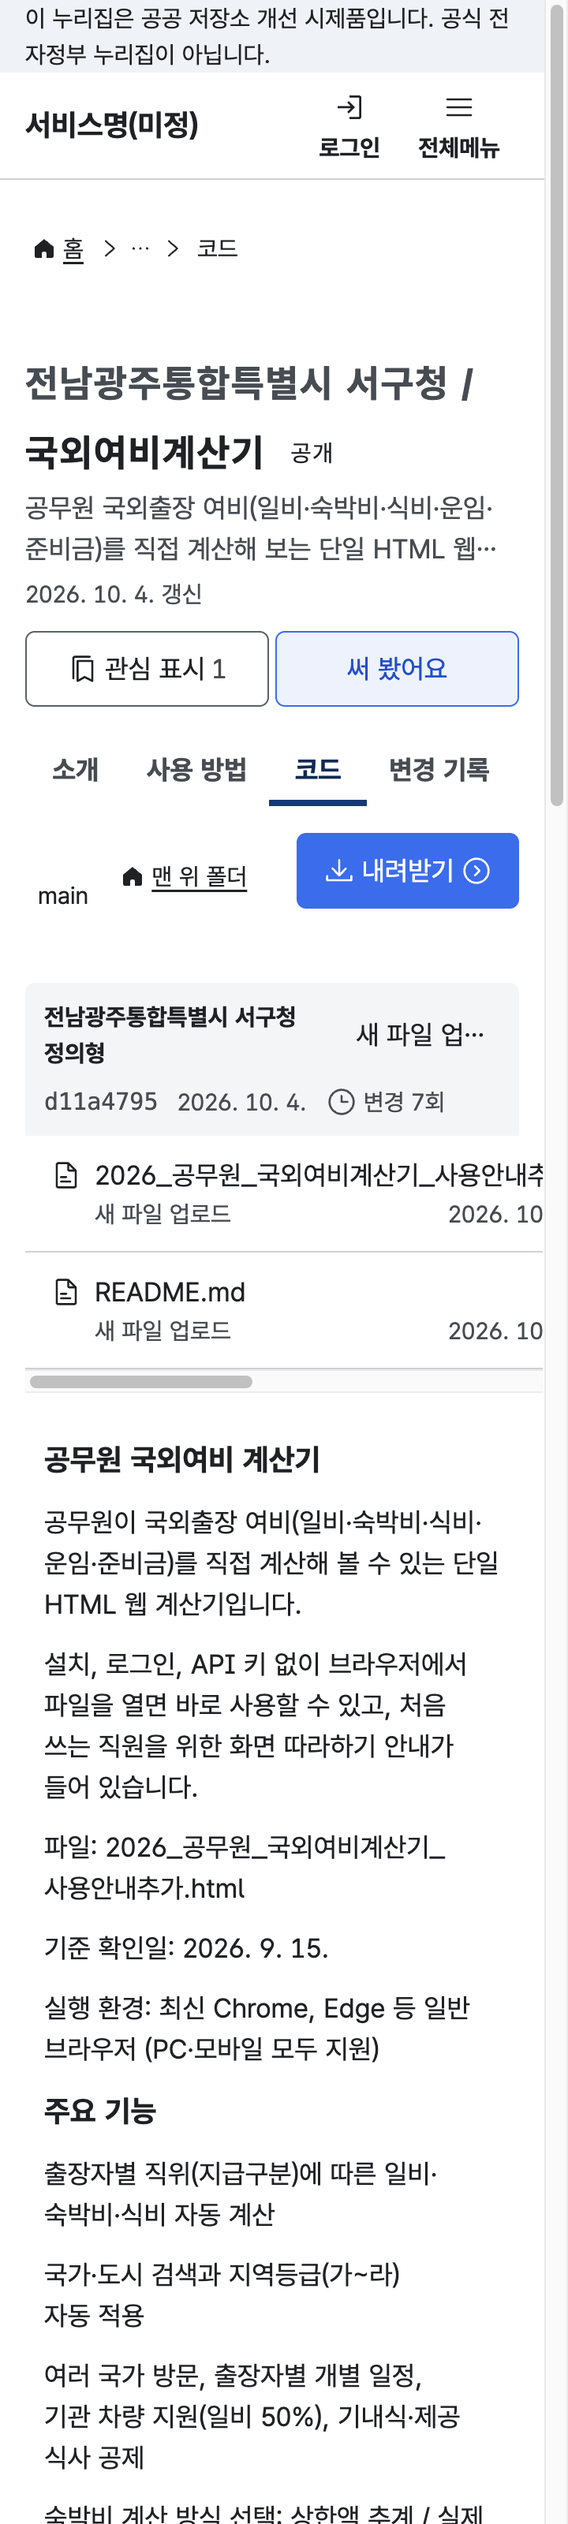
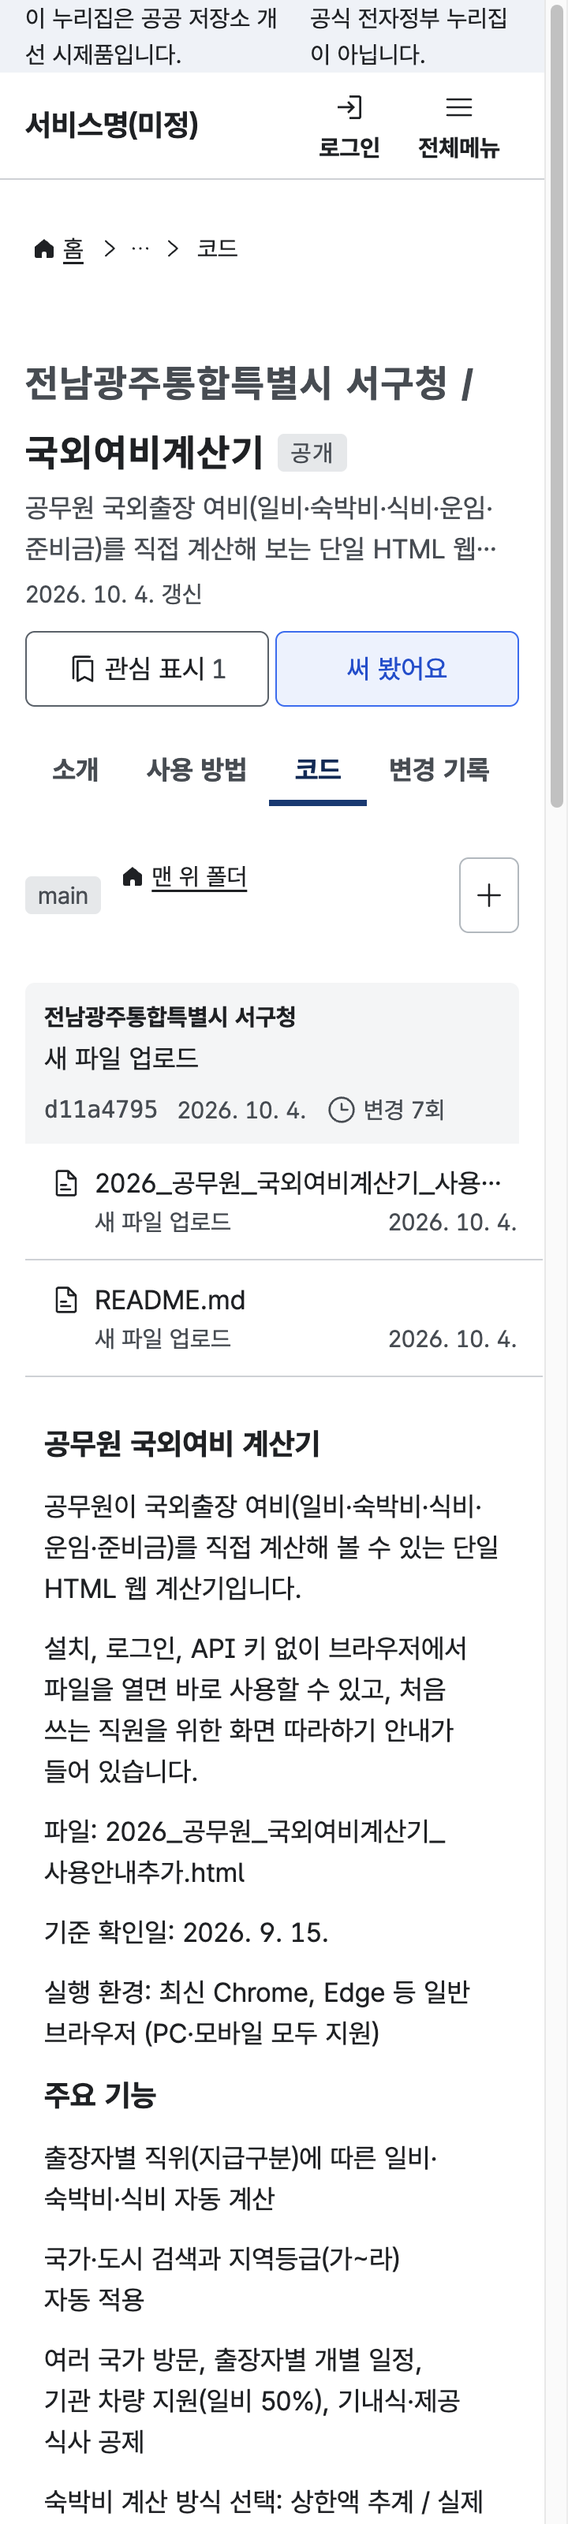
검색 색인 기관 이름에서 담당자 이름과 이니셜 제외(U9)

diff --git a/server/src/catalog-core.js b/server/src/catalog-core.js
@@ -1,16 +1,19 @@
 // 서버(Node)와 화면(브라우저 정적 모드)이 함께 쓰는 검색 로직. 파일 읽기 없음.
 import{classify}from'./analysis.js';
 export function parseCsv(s){let rows=[],row=[],v='',quoted=false;for(let i=0;i<s.length;i++){const c=s[i];if(c==='"'){if(quoted&&s[i+1]==='"'){v+='"';i++;}else quoted=!quoted;}else if(c===','&&!quoted){row.push(v);v='';}else if(c==='\n'&&!quoted){row.push(v.replace(/\r$/,''));if(row.some(Boolean))rows.push(row);row=[];v='';}else v+=c;}if(v||row.length){row.push(v);rows.push(row);}const keys=rows.shift();return rows.map(r=>Object.fromEntries(keys.map((k,i)=>[k,r[i]||''])));}
+// 기관 이름(U9 개인정보 비노출). app/src/components/Layout/orgLabel.js와 같은 규칙. 판단 못 하면 null(화면은 "기관 정보 없음").
+const AGENCY=/(특별자치시|특별자치도|광역시|특별시|시|군|구|도|청|부|처|원|공단|공사|센터|교육청|학교|과|팀|본부|소방서|경찰서|위원회|재단|진흥원|연구원|사무소|관리소|청사|국|실)$/;
+export function organizationName(raw){if(!raw)return null;const words=String(raw).trim().split(/\s+/);while(words.length>1){const last=words[words.length-1];if(/^[A-Z]{2,4}$/.test(last)||(/^[가-힣]{2,4}$/.test(last)&&!AGENCY.test(last)))words.pop();else break;}return words.some(w=>AGENCY.test(w))?words.join(' '):null;}
 export const synonyms={출장:['여비','정산'],여비:['출장','정산'],문서:['한글','hwp','pdf'],요약:['summarizer','summary'],회의:['회의록'],엑셀:['excel','xlsx'],자동화:['자동','automation'],민원:['주민','상담']};
 export const synonymSource='본 프로젝트 업무용 편집 사전(잠정). 외부 표준·검증된 유의어 사전이 아님. UX U1의 쉬운 업무말 검색을 위한 규칙.';
 export function createCatalog({csvText,snapshot}){const live=new Map(snapshot.items.map(p=>[p.id,p]));
-const projects=parseCsv(csvText).map(r=>({id:Number(r.id),name:r.name,path:r.path,organization:r.owner.replace(/\s+[가-힣]{2,4}$/,'').trim(),last:r.last,language:r.lang,description:null,execution:'unknown',license:'unknown',classification:classify(r.name),webUrl:'https://gitlab.aigov.go.kr/'+r.path,sourceDate:'2026-10-25'}));
+const projects=parseCsv(csvText).map(r=>({id:Number(r.id),name:r.name,path:r.path,organization:organizationName(r.owner),last:r.last,language:r.lang,description:null,execution:'unknown',license:'unknown',classification:classify(r.name),webUrl:'https://gitlab.aigov.go.kr/'+r.path,sourceDate:'2026-10-25'}));
 
 
 function units(text){const words=String(text).toLowerCase().match(/[가-힣a-z0-9]+/g)||[];const out=[];for(const w of words){out.push(w);if(/[가-힣]/.test(w)){for(let i=0;i<w.length-1;i++)out.push(w.slice(i,i+2));}}return out;}
 for(const p of projects){const x=live.get(p.id);p.snapshotStatus=x?'current-public-list':'older-team-observation';if(x){p.description=x.description;p.topics=x.topics;p.namespace=x.namespace;p.last=x.last_activity_at?.slice(0,10)||p.last;p.sourceDate=snapshot.observedAt;}}
-for(const x of snapshot.items)if(!projects.some(p=>p.id===x.id))projects.push({id:x.id,name:x.name,path:x.path,organization:x.namespace?.name||null,last:x.last_activity_at?.slice(0,10)||'',description:x.description,topics:x.topics,namespace:x.namespace,language:null,execution:'unknown',license:'unknown',classification:classify(x.name+' '+(x.description||'')+' '+x.topics.join(' ')),webUrl:x.web_url,sourceDate:snapshot.observedAt});
+for(const x of snapshot.items)if(!projects.some(p=>p.id===x.id))projects.push({id:x.id,name:x.name,path:x.path,organization:organizationName(x.namespace?.name),last:x.last_activity_at?.slice(0,10)||'',description:x.description,topics:x.topics,namespace:x.namespace,language:null,execution:'unknown',license:'unknown',classification:classify(x.name+' '+(x.description||'')+' '+x.topics.join(' ')),webUrl:x.web_url,sourceDate:snapshot.observedAt});
 for(const p of projects)p.classification=classify(p.name+' '+(p.description||'')+' '+(p.topics||[]).join(' '));
-const docs=projects.map(p=>units(p.name+' '+p.path+' '+(p.description||'')+' '+(p.topics||[]).join(' ')+' '+p.language+' '+p.organization));const df=new Map();for(const d of docs)for(const t of new Set(d))df.set(t,(df.get(t)||0)+1);const mean=docs.reduce((s,x)=>s+x.length,0)/docs.length;
-function search(query='',filters={},limit=20,page=1){const original=String(query).trim().slice(0,500);const expanded=[original,...Object.entries(synonyms).filter(([k])=>original.includes(k)).flatMap(([,v])=>v)].join(' '),q=[...new Set(units(expanded))];const matched=projects.map((p,i)=>{let score=0;const d=docs[i];for(const t of q){const tf=d.filter(x=>x===t).length;if(tf){const idf=Math.log(1+(projects.length-(df.get(t)||0)+.5)/((df.get(t)||0)+.5));score+=idf*tf*2.2/(tf+1.2*(.25+.75*d.length/mean));}}if(original&&p.name.includes(original))score+=4;return{...p,score:Number(score.toFixed(4))};}).filter(p=>!q.length||p.score>0);const facets={field:{},execution:{}};for(const p of matched){for(const f of p.classification.fields)facets.field[f.name]=(facets.field[f.name]||0)+1;facets.execution[p.execution]=(facets.execution[p.execution]||0)+1;}const scored=matched.filter(p=>(!filters.field||p.classification.fields.some(f=>f.name===filters.field))&&(!filters.organization||p.organization.includes(filters.organization))&&(!filters.execution||p.execution===filters.execution)&&(!filters.updatedAfter||p.last>=filters.updatedAfter)&&(!filters.license||p.license===filters.license));scored.sort((a,b)=>b.score-a.score||b.last.localeCompare(a.last));limit=Math.min(50,Math.max(1,Number(limit)||20));page=Math.max(1,Number(page)||1);return{items:scored.slice((page-1)*limit,page*limit),total:scored.length,facets,page,limit,method:'BM25 + 한국어 2글자 n-gram',sourceDate:snapshot.observedAt,indexedFields:['name','path','description','topics','namespace','organization','language'],notice:'공개 목록 스냅샷을 검색합니다. README 본문은 일괄 수집하지 않았습니다. 실행 환경과 라이선스는 확인 전이므로 unknown입니다.',synonymSource};}
+const docs=projects.map(p=>units(p.name+' '+p.path+' '+(p.description||'')+' '+(p.topics||[]).join(' ')+' '+p.language+' '+(p.organization||'')));const df=new Map();for(const d of docs)for(const t of new Set(d))df.set(t,(df.get(t)||0)+1);const mean=docs.reduce((s,x)=>s+x.length,0)/docs.length;
+function search(query='',filters={},limit=20,page=1){const original=String(query).trim().slice(0,500);const expanded=[original,...Object.entries(synonyms).filter(([k])=>original.includes(k)).flatMap(([,v])=>v)].join(' '),q=[...new Set(units(expanded))];const matched=projects.map((p,i)=>{let score=0;const d=docs[i];for(const t of q){const tf=d.filter(x=>x===t).length;if(tf){const idf=Math.log(1+(projects.length-(df.get(t)||0)+.5)/((df.get(t)||0)+.5));score+=idf*tf*2.2/(tf+1.2*(.25+.75*d.length/mean));}}if(original&&p.name.includes(original))score+=4;return{...p,score:Number(score.toFixed(4))};}).filter(p=>!q.length||p.score>0);const facets={field:{},execution:{}};for(const p of matched){for(const f of p.classification.fields)facets.field[f.name]=(facets.field[f.name]||0)+1;facets.execution[p.execution]=(facets.execution[p.execution]||0)+1;}const scored=matched.filter(p=>(!filters.field||p.classification.fields.some(f=>f.name===filters.field))&&(!filters.organization||(p.organization||'').includes(filters.organization))&&(!filters.execution||p.execution===filters.execution)&&(!filters.updatedAfter||p.last>=filters.updatedAfter)&&(!filters.license||p.license===filters.license));scored.sort((a,b)=>b.score-a.score||b.last.localeCompare(a.last));limit=Math.min(50,Math.max(1,Number(limit)||20));page=Math.max(1,Number(page)||1);return{items:scored.slice((page-1)*limit,page*limit),total:scored.length,facets,page,limit,method:'BM25 + 한국어 2글자 n-gram',sourceDate:snapshot.observedAt,indexedFields:['name','path','description','topics','namespace','organization','language'],notice:'공개 목록 스냅샷을 검색합니다. README 본문은 일괄 수집하지 않았습니다. 실행 환경과 라이선스는 확인 전이므로 unknown입니다.',synonymSource};}
 return{projects,search};}

diff --git a/app/src/api/devState.js b/app/src/api/devState.js
@@ -1,0 +1,36 @@
+// 시험용 상태 보기: 개발 모드에서만 주소 ?state=Min|Max|Empty|Loading|Error 로 Figma 상태 프레임과 같은 상태를 띄운다.
+// 배포본(import.meta.env.DEV === false)에서는 항상 null이라 동작하지 않는다.
+// Min, Max 자료는 실제 응답을 바탕으로 칸만 비우거나 늘린다(가짜 기관이나 수치를 새로 만들지 않는다).
+export function devState() {
+  if (!import.meta.env.DEV) return null;
+  const s = new URLSearchParams(window.location.search).get('state');
+  return ['Min', 'Max', 'Empty', 'Loading', 'Error'].includes(s) ? s : null;
+}
+
+const LONG = ' 업무 처리 기준과 서식을 함께 확인할 수 있도록 설명을 길게 적은 경우의 표시 시험 문장입니다.';
+
+/** 목록 항목 하나를 Min(필수 칸만) 또는 Max(칸마다 길게)로 바꾼다 */
+export function shapeItem(item, mode) {
+  if (mode === 'Min') return { id: item.id, name: item.name, last: item.last };
+  if (mode === 'Max') {
+    return {
+      ...item,
+      name: `${item.name} ${item.name} ${item.name}`,
+      description: (item.description || item.name) + LONG + LONG,
+      organization: `${item.organization || ''} 기획조정실 정보화담당관 데이터정책팀`.trim(),
+      topics: [...(item.topics || []), '문서', '자동화', '엑셀', '민원', '회계', '인사', '교육'],
+    };
+  }
+  return item;
+}
+
+/** {data:{items}} 모양 응답에 상태를 입힌다 */
+export function shapeList(response, mode) {
+  if (!mode || !response?.data?.items) return response;
+  if (mode === 'Empty') return { ...response, data: { ...response.data, items: [], total: 0 } };
+  if (mode === 'Min' || mode === 'Max') return { ...response, data: { ...response.data, items: response.data.items.map((i) => shapeItem(i, mode)) } };
+  return response;
+}
+
+/** 자료가 있는 상태(Ideal, Min, Max) */
+export const hasData = (state) => state === 'Ideal' || state === 'Min' || state === 'Max';

diff --git a/app/src/screens/P02_Search.jsx b/app/src/screens/P02_Search.jsx
@@ -6,6 +6,7 @@ import { useState } from 'react';
 import { useSearchParams } from 'react-router-dom';
 import { product } from '../api/client';
 import { useData } from '../api/useData';
+import { hasData } from '../api/devState';
 import { Page } from '../components/Layout/Page';
 import { Breadcrumb } from '../components/Navigation/Breadcrumb';
 import { Pagination } from '../components/Navigation/Pagination';
@@ -94,7 +95,7 @@ export default function Search() {
         <section className="rb-stack rb-grow" aria-label={t.P02_5}>
           <div className="rb-result-bar">
             <p role="status" className="krds-text-heading-small">
-              {result.state === 'Ideal' ? t.fn.resultCount(result.data.data.total) : result.state === 'Empty' ? t.P02_9 : ''}
+              {hasData(result.state) ? t.fn.resultCount(result.data.data.total) : result.state === 'Empty' ? t.P02_9 : ''}
             </p>
             <Button Type="tertiary" Size="small" className="krds-btn small tertiary rb-filter-mobile" aria-expanded={sheet} onClick={() => setSheet(true)}>
               {t.fn.filterButton(active.length)}
@@ -114,7 +115,7 @@ export default function Search() {
               {t.P02_emptyHint}
             </EmptyState>
           )}
-          {result.state === 'Ideal' && (
+          {hasData(result.state) && (
             <>
               <ProjectList items={result.data.data.items} />
               <Pagination
@@ -130,7 +131,7 @@ export default function Search() {
               />
             </>
           )}
-          {result.state === 'Ideal' && result.data.data.sourceDate && (
+          {hasData(result.state) && result.data.data.sourceDate && (
             <p className="krds-text-body-small rb-subtle">{t.fn.sourceDate(result.data.data.sourceDate)}</p>
           )}
         </section>

diff --git a/app/src/components/Code/code.css b/app/src/components/Code/code.css
@@ -19,7 +19,6 @@
 .tok-tag { color: var(--repo-syntax-tag); }
 .rb-repo-bar { display: flex; flex-wrap: wrap; align-items: center; gap: var(--krds-gap-3); justify-content: space-between; }
 .rb-repo-bar-left { display: flex; flex-wrap: wrap; align-items: center; gap: var(--krds-gap-3); }
-.rb-tree td:first-child { width: 50%; }
 @media (max-width: 767px) {
   .rb-tree .rb-tree-msg { display: none; }
   .rb-code-table { font-size: var(--krds-mobile-font-size-body-small); }
@@ -42,7 +41,7 @@
 .rb-commit-meta { display: flex; align-items: center; gap: var(--krds-gap-4); }
 .rb-commit-count { display: inline-flex; align-items: center; gap: var(--krds-gap-2); }
 .rb-ellipsis { display: inline-block; min-width: 0; max-width: 100%; overflow: hidden; text-overflow: ellipsis; white-space: nowrap; vertical-align: bottom; }
-.rb-tree { table-layout: fixed; width: 100%; }
+.krds-table-wrap .rb-tree.tbl { table-layout: fixed; width: 100%; min-width: 0; }
 .rb-tree th:first-child { width: 36%; }
 .rb-tree .rb-col-date { width: 9em; text-align: right; }
 .rb-tree td { overflow: hidden; }
@@ -56,7 +55,7 @@
 }
 @media (max-width: 767px) {
   .rb-tree thead, .rb-tree .rb-col-date { display: none; }
-  .rb-tree, .rb-tree tbody, .rb-tree tr, .rb-tree td { display: block; width: 100%; }
+  .krds-table-wrap .rb-tree.tbl, .rb-tree tbody, .rb-tree tr, .rb-tree td { display: block; width: 100%; min-width: 0; }
   .rb-tree-mobile { display: flex; gap: var(--krds-gap-3); justify-content: space-between; padding-left: calc(var(--krds-size-height-3) + var(--krds-gap-3)); }
   .rb-commit-bar { flex-direction: column; align-items: flex-start; }
   .rb-repo-bar { flex-wrap: nowrap; align-items: center; }

diff --git a/app/src/screens/P11_Organizations.jsx b/app/src/screens/P11_Organizations.jsx
@@ -5,6 +5,7 @@ import { useState } from 'react';
 import { Link } from 'react-router-dom';
 import { product } from '../api/client';
 import { useData } from '../api/useData';
+import { hasData } from '../api/devState';
 import { Page } from '../components/Layout/Page';
 import { Breadcrumb } from '../components/Navigation/Breadcrumb';
 import { Status, EmptyState } from '../components/Feedback/Status';
@@ -12,7 +13,7 @@ import { Status, EmptyState } from '../components/Feedback/Status';
 export default function Organizations() {
   const [filter, setFilter] = useState('');
   const orgs = useData(() => product.get('/organizations'), []);
-  const items = orgs.state === 'Ideal' ? orgs.data.data.items.filter((o) => o.name.includes(filter.trim())).sort((a, b) => b.projectCount - a.projectCount) : [];
+  const items = hasData(orgs.state) ? orgs.data.data.items.filter((o) => o.name.includes(filter.trim())).sort((a, b) => b.projectCount - a.projectCount) : [];
   return (
     <Page id="P-11" title={t.P11_1} state={orgs.state}>
       <Breadcrumb items={[[t.Header_2, '/'], [t.P11_1]]} />
@@ -22,7 +23,7 @@ export default function Organizations() {
         <input className="krds-input medium" id="org-filter" type="search" placeholder={t.P11_3} value={filter} onChange={(e) => setFilter(e.target.value)} />
       </div>
       <Status {...orgs} />
-      {orgs.state === 'Ideal' && (items.length ? (
+      {hasData(orgs.state) && (items.length ? (
         <ul className="krds-structured-list rb-list">
           {items.map((o) => (
             <li className="structured-item" key={o.name}>

diff --git a/app/src/screens/P16_Code.jsx b/app/src/screens/P16_Code.jsx
@@ -9,6 +9,7 @@ import { EmptyState, Status } from '../components/Feedback/Status';
 import { CodeView } from '../components/Code/CodeView';
 import { Icon } from '../components/Code/Icon';
 import { DownloadMenu } from '../components/Code/DownloadMenu';
+import { orgLabel } from '../components/Layout/orgLabel';
 import '../components/Code/code.css';
 
 const enc = encodeURIComponent;
@@ -42,7 +43,7 @@ function LastCommit({ id, commit, count, more, path }) {
   return (
     <div className="rb-commit-bar">
       <p className="rb-commit-main">
-        <span className="krds-text-body-small-bold">{commit.author_name}</span>
+        <span className="krds-text-body-small-bold">{orgLabel(commit.author_name)}</span>
         <Link className="krds-link rb-ellipsis" to={`/projects/${id}/changes/${commit.id}`}>{commit.title}</Link>
       </p>
       <p className="rb-commit-meta krds-text-body-small rb-subtle">
@@ -89,7 +90,7 @@ function Tree({ id, path, items, log }) {
                 <td>
                   <Link className="rb-tree-name" to={`/projects/${id}/code/${f.path}`}>
                     <Icon name={f.type === 'tree' ? 'new_folder' : 'document'} label={f.type === 'tree' ? t.P16_folder : t.P16_file} />
-                    <span className="rb-ellipsis">{f.name}</span>
+                    <span className="rb-ellipsis rb-break-any">{f.name}</span>
                   </Link>
                   <span className="rb-tree-mobile krds-text-body-small rb-subtle">
                     <span className="rb-ellipsis">{c ? c.title : t.P16_noLog}</span>

diff --git a/app/src/api/useData.js b/app/src/api/useData.js
@@ -1,18 +1,26 @@
 import { useEffect, useState } from 'react';
+import { devState, shapeList } from './devState';
 
 /**
- * 데이터 상태(PRD 6.3): Loading, Ideal, Empty, Error.
- * isEmpty로 Empty 판단 기준을 화면이 정한다.
+ * 데이터 상태(PRD 6.3): Loading, Ideal, Min, Max, Empty, Error.
+ * isEmpty로 Empty 판단 기준을 화면이 정한다. shape는 시험용 상태 보기(개발 모드 ?state=)에서 자료를 바꾸는 함수(기본: 목록 모양).
  */
-export function useData(load, deps, isEmpty = () => false) {
+export function useData(load, deps, isEmpty = () => false, shape = shapeList) {
   const [result, setResult] = useState({ state: 'Loading' });
   const [version, setVersion] = useState(0);
 
   useEffect(() => {
     let live = true;
+    const forced = devState();
     setResult({ state: 'Loading' });
-    load()
-      .then((data) => live && setResult({ state: isEmpty(data) ? 'Empty' : 'Ideal', data }))
+    if (forced === 'Loading') return () => { live = false; };
+    const run = forced === 'Error' ? Promise.reject(new Error('시험용 오류 상태')) : load();
+    run
+      .then((raw) => {
+        if (!live) return;
+        const data = forced ? shape(raw, forced) : raw;
+        setResult({ state: isEmpty(data) ? 'Empty' : forced === 'Min' || forced === 'Max' ? forced : 'Ideal', data });
+      })
       .catch((error) => live && setResult({ state: 'Error', error: error.message, status: error.status }));
     return () => {
       live = false;

diff --git a/app/scripts/linebreak-inspect.js b/app/scripts/linebreak-inspect.js
@@ -2,6 +2,7 @@
 // 대상: 제목, 문단, 목록, 레이블. 글 상자의 줄을 글자 단위 Range로 재서
 //  - lastWord: 두 줄 이상인데 마지막 줄이 한 어절
 //  - ratio: 두세 줄짜리에서 가장 짧은 줄 / 가장 긴 줄 < 0.5 (마지막 줄 포함)
+//  - phraseSpace: 절 덩어리 사이 공백 누락
 //  - midWord: 줄 끝이 공백이 아닌데 다음 줄 첫 글자와 같은 어절(어절 중간 끊김). 파일명, 주소(.rb-break-any 등)는 제외
 export function inspectLines() {
   const SKIP = '.rb-break-any, code, pre, .rb-code, .sr-only, legend, [aria-hidden="true"], .rb-path, td a';
@@ -50,6 +51,11 @@ export function inspectLines() {
       const between = text.slice(endChar.at + 1, startChar.at);
       if (!/\s/.test(between) && /[가-힣A-Za-z0-9]/.test(endChar.c) && /[가-힣A-Za-z0-9]/.test(startChar.c)) issues.push(['midWord', name, endChar.c + '|' + startChar.c]);
     }
+  }
+  // phraseSpace: 덩어리(.rb-phrase) 사이 공백이 사라졌는지(copy/ko.js 원문에서 '|'만 뺀 문장과 같아야 한다)
+  for (const ph of document.querySelectorAll('#root .rb-phrase + .rb-phrase')) {
+    const gap = ph.previousSibling;
+    if (!gap || gap.nodeType !== 3 || gap.data !== ' ') issues.push(['phraseSpace', ph.parentElement.textContent.trim().slice(0, 24), ph.textContent.slice(0, 8)]);
   }
   return issues;
 }

diff --git a/app/src/components/Identity/Header.jsx b/app/src/components/Identity/Header.jsx
@@ -143,8 +143,8 @@ export function Header() {
                   <Link to="/">{SERVICE_NAME}</Link>
                 </h2>
                 <div className="header-actions">
-                  <Link className="btn-navi login" to={loginTo}>{t.Header_login}</Link>
-                  <Link className="btn-navi my" to="/my">{t.Header_my}</Link>
+                  <Link className="btn-navi navi-row login" to={loginTo}>{t.Header_login}</Link>
+                  <Link className="btn-navi navi-row my" to="/my">{t.Header_my}</Link>
                   <button type="button" className="btn-navi all" aria-controls="mobile-nav" aria-expanded={open} onClick={() => setOpen(true)}>
                     {t.Header_allMenu}
                   </button>
@@ -157,7 +157,7 @@ export function Header() {
               <ul className="gnb-menu">
                 {MAIN_MENU.map(([to, label]) => (
                   <li key={to}>
-                    <NavLink className={({ isActive }) => 'gnb-main-trigger is-link' + (isActive ? ' active' : '')} end={to === '/'} to={to}>
+                    <NavLink className={({ isActive }) => 'gnb-main-trigger' + (isActive ? ' active' : '')} end={to === '/'} to={to} aria-current={undefined}>
                       {label}
                     </NavLink>
                   </li>

diff --git a/app/src/copy/ko.js b/app/src/copy/ko.js
@@ -242,7 +242,7 @@ export const t = {
   P13_1: "찾는 화면이 없습니다.",
   P13_2: "주소가 바뀌었거나 삭제되었을 수 있습니다. | 업무 말로 다시 찾아보세요.",
   P13_3: "볼 수 있는 권한이 없습니다.",
-  P13_4: "비공개 도구입니다. | 로그인하면 볼 수 있는 경우가 있습니다. | 볼 수 없다면 만든 기관에 문의하세요.",
+  P13_4: "비공개 도구입니다. 로그인하면 | 볼 수 있는 경우가 있습니다. | 볼 수 없다면 | 만든 기관에 문의하세요.",
   P13_5: "지금은 점검 중입니다.",
   P13_6: "점검이 끝나면 다시 이용할 수 있습니다. | 점검 일정은 공지에서 확인하세요.",
   P13_7: "첫 화면으로",
@@ -352,7 +352,7 @@ export const t = {
   P16_cloneCopied: "가져오기 주소를 복사했습니다.",
   P16_partial: "항목이 많아 앞 30개만 마지막 변경을 표시합니다.",
   P16_noLog: "기록 없음",
-  orgUnknown: "기관 정보 없음",
+  orgUnknown: "기관 확인 필요",
   // 숫자가 들어가는 문구
   fn: {
     updated: (date) => `${date} 갱신`,

diff --git a/app/src/screens/P15_Requests.jsx b/app/src/screens/P15_Requests.jsx
@@ -5,6 +5,7 @@ import { useEffect, useState } from 'react';
 import { useSearchParams } from 'react-router-dom';
 import { auth, product } from '../api/client';
 import { useData } from '../api/useData';
+import { hasData } from '../api/devState';
 import { Page } from '../components/Layout/Page';
 import { Breadcrumb } from '../components/Navigation/Breadcrumb';
 import { Status, EmptyState } from '../components/Feedback/Status';
@@ -78,7 +79,7 @@ export default function Requests() {
           <div className="rb-actions"><Button onClick={startWrite}>{t.P02_12}</Button></div>
           <Status {...list} />
           {list.state === 'Empty' && <EmptyState title={t.P15_14}>{t.P15_13}</EmptyState>}
-          {list.state === 'Ideal' && (
+          {hasData(list.state) && (
             <ul className="krds-structured-list rb-list">
               {list.data.data.items.map((r) => (
                 <li className="structured-item rb-list-link" key={r.id}>

diff --git a/app/src/screens/P01_Home.jsx b/app/src/screens/P01_Home.jsx
@@ -4,6 +4,7 @@ import { t } from '../copy/ko';
 import { Link } from 'react-router-dom';
 import { product } from '../api/client';
 import { useData } from '../api/useData';
+import { hasData } from '../api/devState';
 import { Page } from '../components/Layout/Page';
 import { TaskSearch } from '../components/Input/TaskSearch';
 import { ProjectList } from '../components/Layout/StructuredList';
@@ -34,7 +35,7 @@ export default function Home() {
         <h2 id="recent-title" className="krds-text-heading-medium">{phrase(t.P01_13)}</h2>
         <Status {...list} />
         {list.state === 'Empty' && <EmptyState title={t.P01_14} />}
-        {list.state === 'Ideal' && <ProjectList items={list.data.data.items} />}
+        {hasData(list.state) && <ProjectList items={list.data.data.items} />}
         <Link className="krds-link" to="/search">{t.P01_15}</Link>
       </section>
     </Page>
